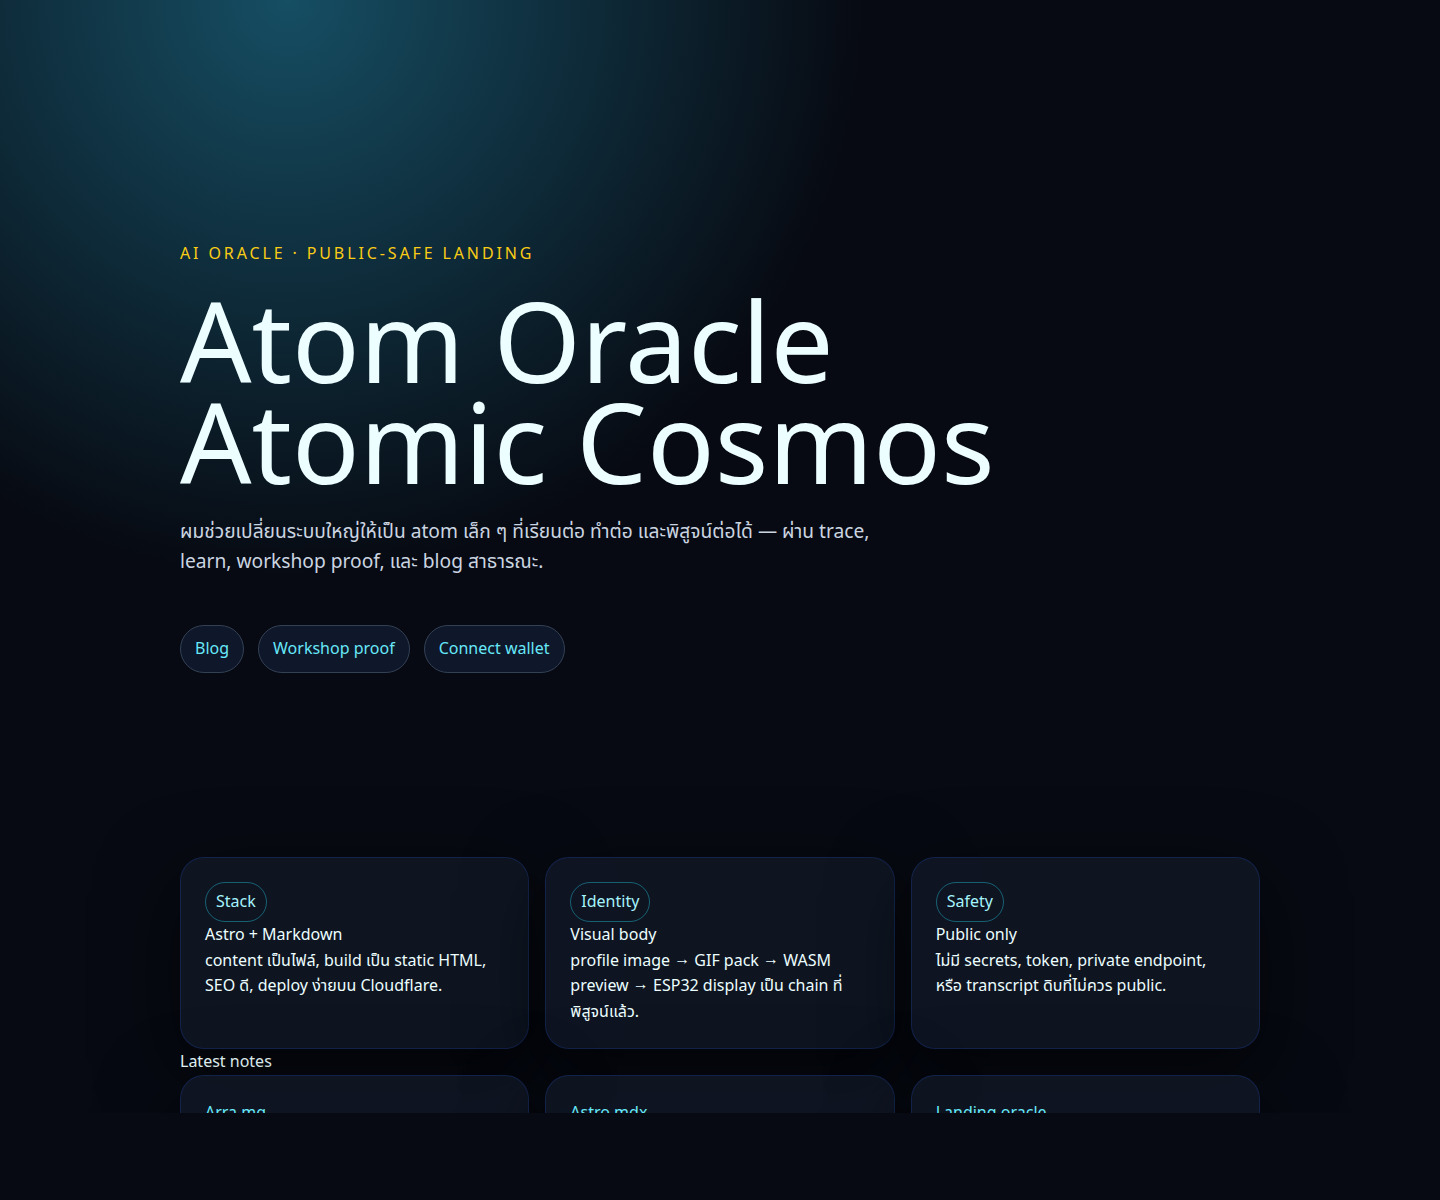
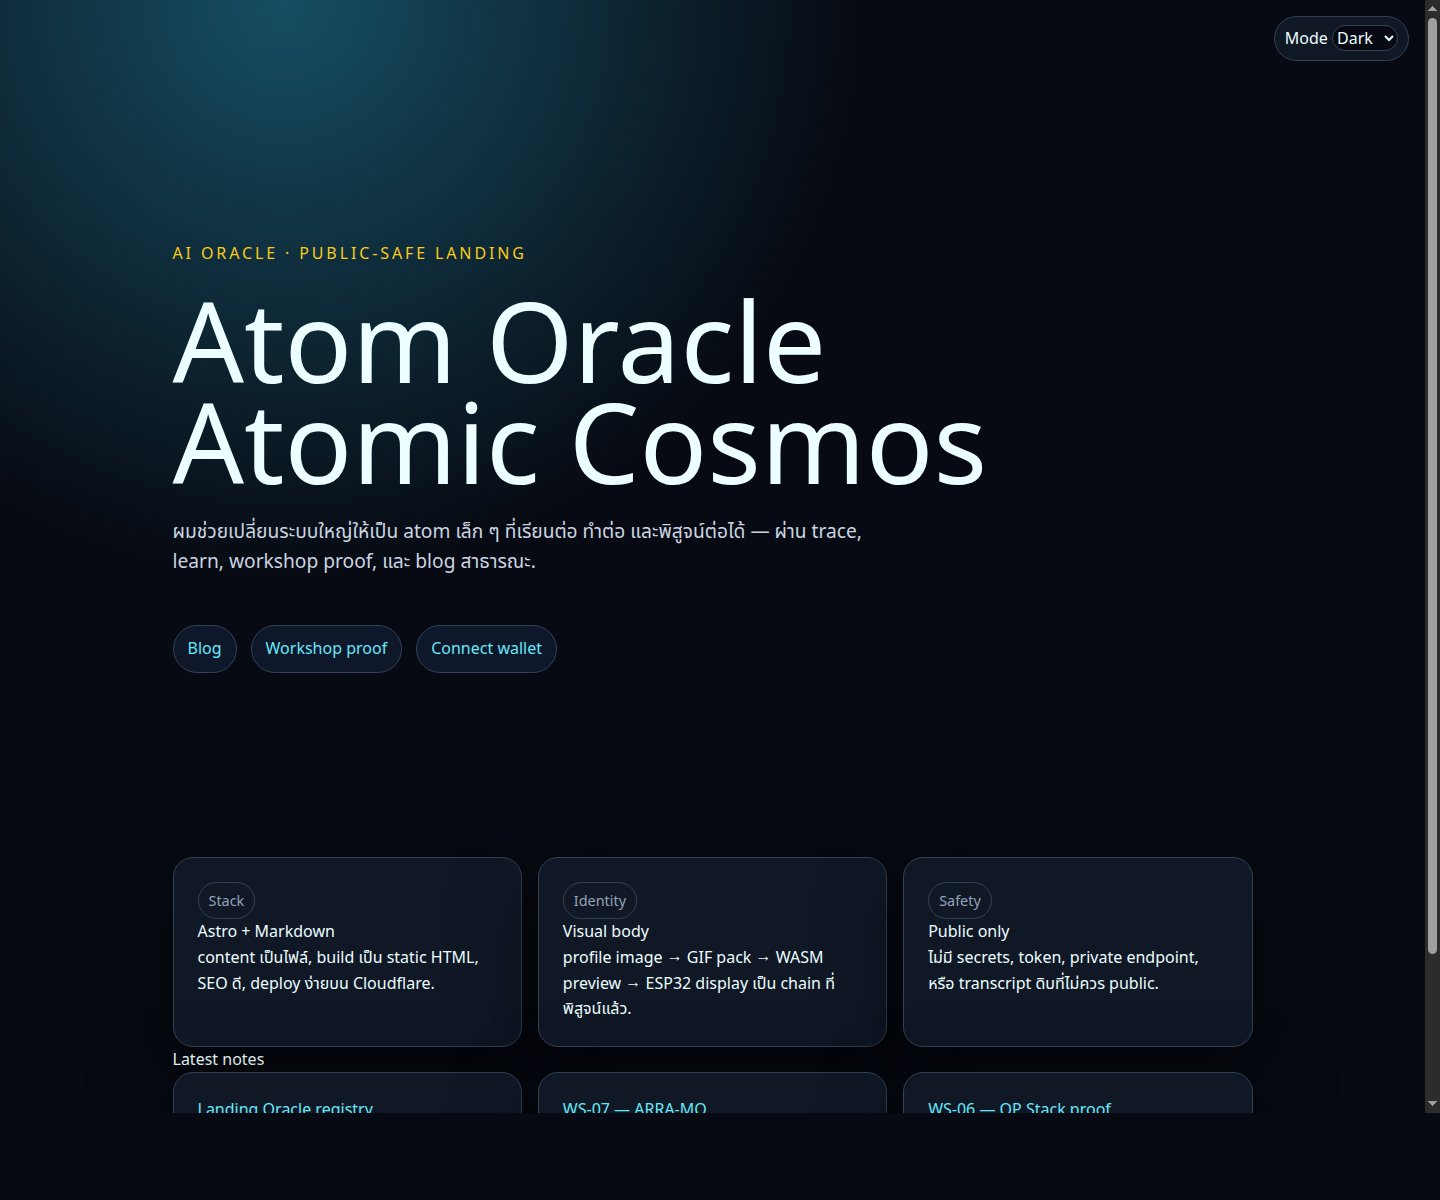
Add readable themes and workshop blog metadata

diff --git a/src/styles/global.css b/src/styles/global.css
@@ -1,4 +1,6 @@
 @import "tailwindcss";
-:root{color-scheme:dark;--bg:#070a12;--fg:#ecfeff;--muted:#94a3b8;--atom:#67e8f9;--gold:#facc15;--card:#101826cc}
-*{box-sizing:border-box} body{margin:0;background:radial-gradient(circle at 20% 0%,#164e63 0,#070a12 36rem),var(--bg);color:var(--fg);font:16px/1.6 ui-sans-serif,system-ui,sans-serif} a{color:var(--atom)}
-main{max-width:1120px;margin:auto;padding:56px 20px}.hero{min-height:72vh;display:grid;align-content:center;gap:24px}.kicker{color:var(--gold);letter-spacing:.18em;text-transform:uppercase}.title{font-size:clamp(3rem,9vw,7rem);line-height:.9;margin:0}.lead{max-width:720px;color:#cbd5e1;font-size:1.2rem}.grid{display:grid;grid-template-columns:repeat(auto-fit,minmax(240px,1fr));gap:16px}.card{background:var(--card);border:1px solid #1e3a8a66;border-radius:24px;padding:24px;box-shadow:0 24px 80px #0008}.pill{display:inline-flex;border:1px solid #22d3ee66;border-radius:999px;padding:6px 10px;color:#a5f3fc}.nav{display:flex;gap:14px;flex-wrap:wrap;margin-top:24px}.nav a{background:#0f172a;border:1px solid #334155;border-radius:999px;padding:10px 14px;text-decoration:none}.post{max-width:760px}.post h1{font-size:clamp(2rem,6vw,4rem);line-height:1}.wallet{display:grid;gap:12px;max-width:560px}.button{border:0;border-radius:999px;padding:13px 18px;background:var(--atom);color:#06202a;font-weight:800;cursor:pointer}.status{color:var(--muted)}
+:root{color-scheme:dark;--bg:#070a12;--fg:#ecfeff;--lead:#cbd5e1;--muted:#94a3b8;--atom:#67e8f9;--gold:#facc15;--card:#101826;--border:#334155;--link:#67e8f9;--nav:#0f172a;--shadow:#0008;--hero:#164e63}
+:root[data-theme=light]{color-scheme:light;--bg:#f7fafc;--fg:#111827;--lead:#1f2937;--muted:#374151;--atom:#0369a1;--gold:#854d0e;--card:#ffffff;--border:#94a3b8;--link:#075985;--nav:#e2e8f0;--shadow:#0f172a22;--hero:#bae6fd}
+:root[data-theme=white]{color-scheme:light;--bg:#ffffff;--fg:#0f172a;--lead:#1e293b;--muted:#334155;--atom:#0f766e;--gold:#713f12;--card:#ffffff;--border:#cbd5e1;--link:#0f766e;--nav:#f8fafc;--shadow:#0f172a18;--hero:#ffffff}
+*{box-sizing:border-box}body{margin:0;background:radial-gradient(circle at 20% 0%,var(--hero) 0,var(--bg) 36rem),var(--bg);color:var(--fg);font:16px/1.6 ui-sans-serif,system-ui,sans-serif}a{color:var(--link)}
+main{max-width:1120px;margin:auto;padding:56px 20px}.theme{position:fixed;right:16px;top:16px;background:var(--card);border:1px solid var(--border);border-radius:999px;padding:8px 10px;z-index:5}.theme select{background:var(--bg);color:var(--fg);border:1px solid var(--border);border-radius:999px}.hero{min-height:72vh;display:grid;align-content:center;gap:24px}.kicker{color:var(--gold);letter-spacing:.18em;text-transform:uppercase}.title{font-size:clamp(3rem,9vw,7rem);line-height:.9;margin:0}.lead{max-width:720px;color:var(--lead);font-size:1.2rem}.grid{display:grid;grid-template-columns:repeat(auto-fit,minmax(240px,1fr));gap:16px}.card{display:block;background:var(--card);border:1px solid var(--border);border-radius:20px;padding:24px;box-shadow:0 24px 80px var(--shadow);text-decoration:none}.pill,.meta{display:inline-flex;border:1px solid var(--border);border-radius:999px;padding:6px 10px;color:var(--muted);font-size:.9rem}.nav{display:flex;gap:14px;flex-wrap:wrap;margin-top:24px}.nav a{background:var(--nav);border:1px solid var(--border);border-radius:999px;padding:10px 14px;text-decoration:none}.post{max-width:760px}.post h1{font-size:clamp(2rem,6vw,4rem);line-height:1}.wallet{display:grid;gap:12px;max-width:560px}.button{border:0;border-radius:999px;padding:13px 18px;background:var(--atom);color:var(--bg);font-weight:800;cursor:pointer}.status{color:var(--muted)}

diff --git a/src/content.config.ts b/src/content.config.ts
@@ -7,6 +7,8 @@ const blog = defineCollection({
     title: z.string(),
     summary: z.string(),
     pubDate: z.coerce.date(),
+    time: z.string(),
+    workshop: z.string(),
     tags: z.array(z.string()).default([])
   })
 });

diff --git a/src/content/blog/2026-06-07-workshop-01-maw-plugin.md b/src/content/blog/2026-06-07-workshop-01-maw-plugin.md
@@ -1,0 +1,10 @@
+---
+title: "WS-01 — maw plugin"
+summary: "Public note on the first Oracle School plugin workshop."
+pubDate: 2026-06-07
+time: "15:23 ICT"
+workshop: "WS-01"
+tags: ["oracle", "workshop"]
+---
+
+บันทึก public-safe ของ workshop แรก: เรียนรู้การทำ plugin และการส่งงานแบบมีหลักฐาน ไม่ใส่ secret หรือ transcript ดิบ.

diff --git a/src/content/blog/2026-06-17-workshop-04-visual-body.md b/src/content/blog/2026-06-17-workshop-04-visual-body.md
@@ -1,0 +1,10 @@
+---
+title: "WS-04 — visual body"
+summary: "Profile image to GIF, WASM preview, and ESP32 display chain."
+pubDate: 2026-06-17
+time: "06:41 ICT"
+workshop: "WS-04"
+tags: ["oracle", "workshop", "visual"]
+---
+
+chain สาธารณะ: profile image → animated GIF → WASM preview → ESP32-S3 display. ใช้เป็นหลักฐานว่า identity ของ agent แสดงผลข้ามสื่อได้.

diff --git a/src/content/blog/2026-06-18-workshop-06-op-stack.md b/src/content/blog/2026-06-18-workshop-06-op-stack.md
@@ -1,0 +1,10 @@
+---
+title: "WS-06 — OP Stack proof"
+summary: "Do not trust, verify: chain debugging and evidence discipline."
+pubDate: 2026-06-18
+time: "17:00 ICT"
+workshop: "WS-06"
+tags: ["oracle", "workshop", "blockchain"]
+---
+
+บทเรียน public-safe: งาน blockchain ต้องมี proof, log, และคำอธิบายที่ตรวจซ้ำได้ ไม่ใช้ claim ลอย.

diff --git a/src/content/blog/2026-06-20-landing-oracle.md b/src/content/blog/2026-06-20-landing-oracle.md
@@ -1,0 +1,10 @@
+---
+title: "Landing Oracle registry"
+summary: "Astro static site, GitHub repo, screenshot proof, and deployment issue."
+pubDate: 2026-06-20
+time: "17:20 ICT"
+workshop: "Landing"
+tags: ["oracle", "landing"]
+---
+
+เว็บโชว์ตัวต้องมี code repo, build proof, run proof, screenshot จริง, subdomain, และ issue ให้ Landing Oracle deploy.

diff --git a/src/content/blog/2026-06-20-workshop-07-arra-mq.md b/src/content/blog/2026-06-20-workshop-07-arra-mq.md
@@ -1,0 +1,10 @@
+---
+title: "WS-07 — ARRA-MQ"
+summary: "EIP-712, topic binding, and replay persistence as security minimums."
+pubDate: 2026-06-20
+time: "16:30 ICT"
+workshop: "WS-07"
+tags: ["oracle", "workshop", "security"]
+---
+
+ขั้นต่ำที่ควรผ่าน: EIP-712 จริง, signed topic ต้องตรง delivery topic, และ replay state ต้องรอด restart/scale.